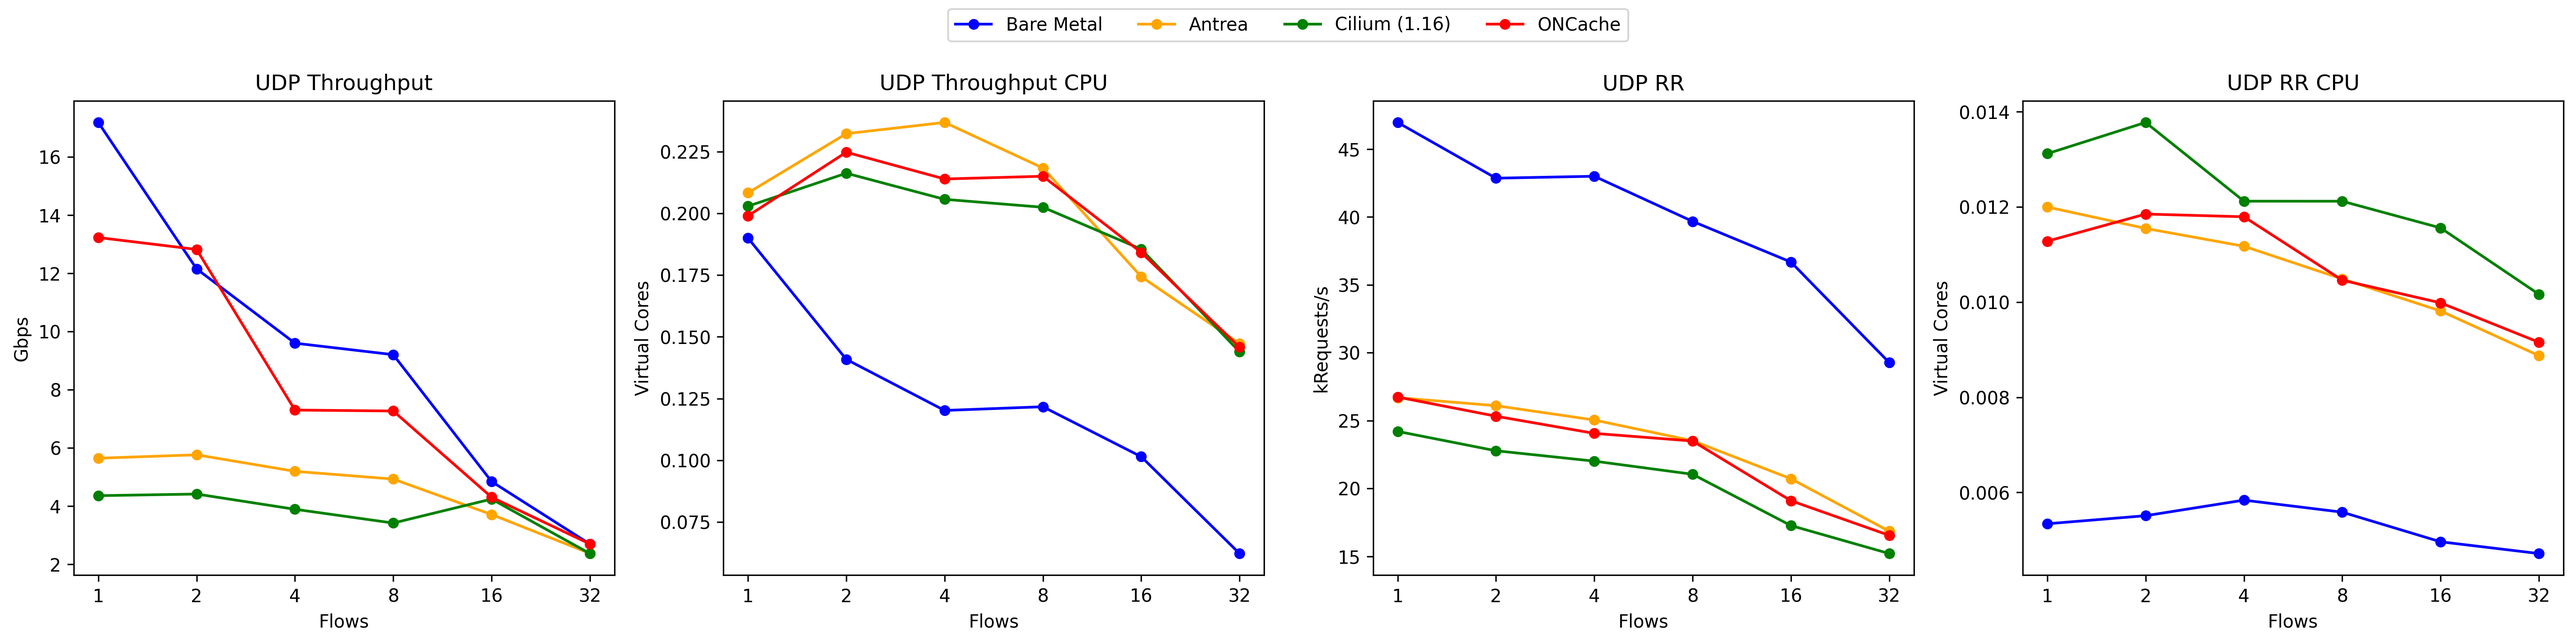
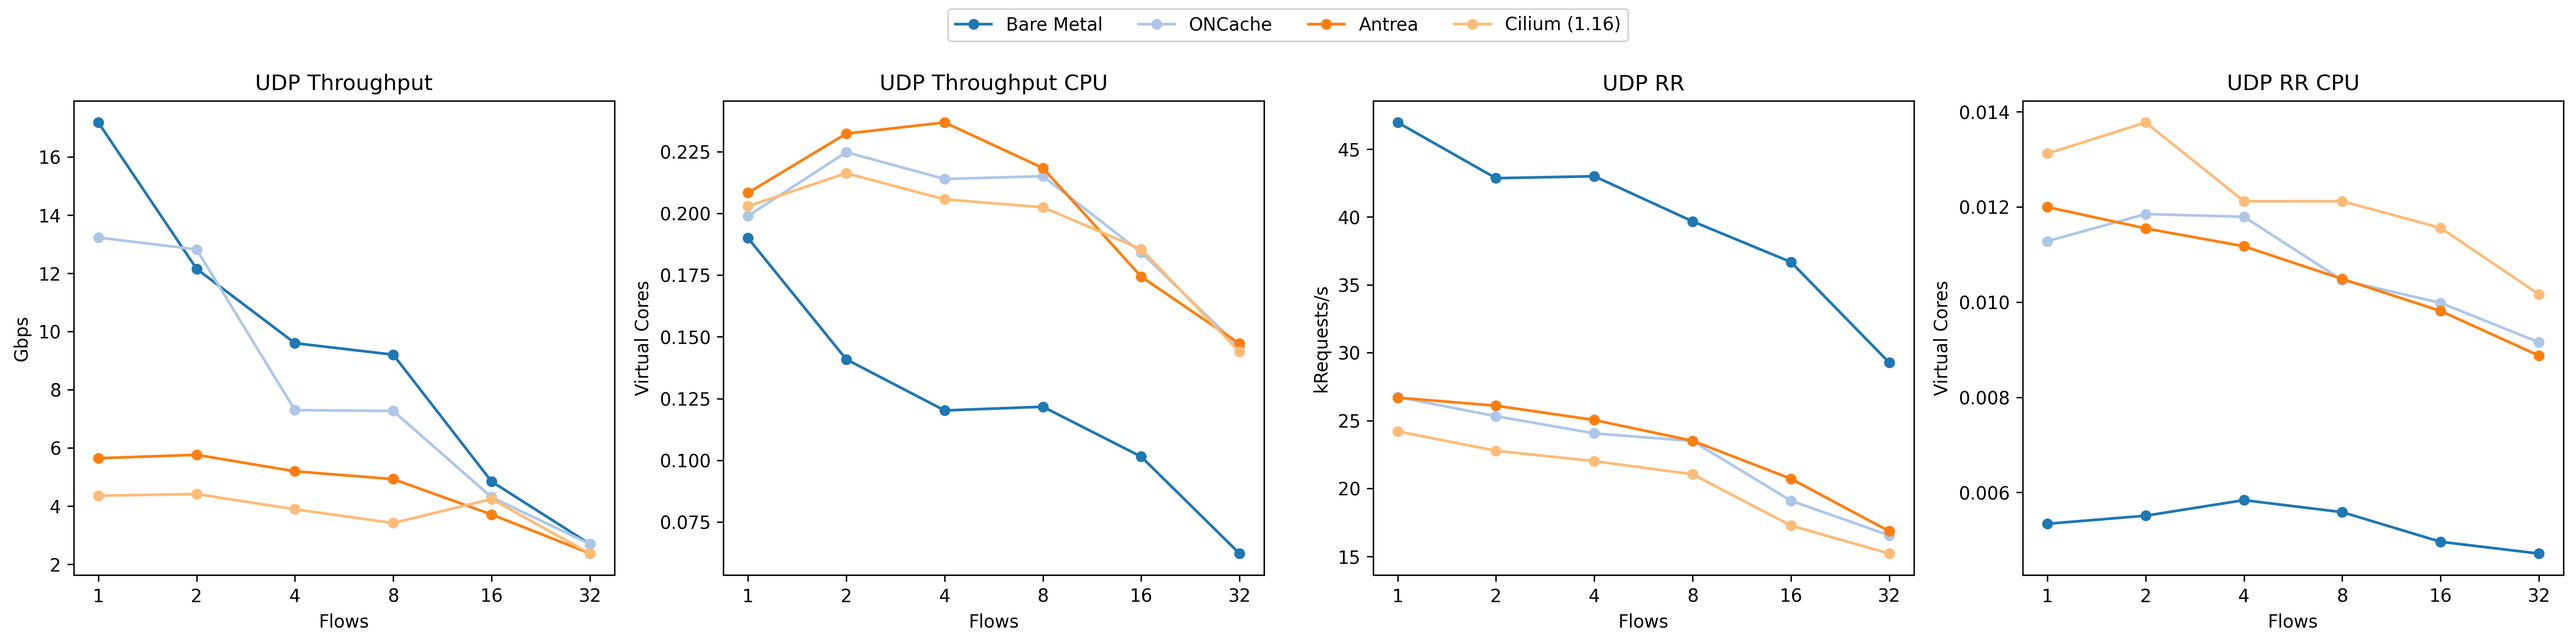
Update plot colors

diff --git a/plot.py b/plot.py
@@ -27,28 +27,28 @@ DATA_CONFIG: Dict[str, DataConfig] = {
     "baremetal": {
         "filename": "{}_baremetal_output.csv",
         "label": "Bare Metal",
-        "color": "blue",
+        "color": "#1F77B4",
+    },
+    "k8s-oncache": {
+        "filename": "{}_k8s_output_oncache.csv",
+        "label": "ONCache",
+        "color": "#AEC7E8",
     },
     "k8s-antrea": {
         "filename": "{}_k8s_output_antrea.csv",
         "label": "Antrea",
-        "color": "orange",
+        "color": "#FE7F10",
     },
     "k8s-cilium": {
         "filename": "{}_k8s_output_cilium_1-16.csv",
         "label": "Cilium (1.16)",
-        "color": "green",
+        "color": "#FFBB78",
     },
     # "k8s-cilium-new": {
     #     "filename": "{}_k8s_output_cilium_1-17_tuned.csv",
     #     "label": "Cilium (1.17)",
     #     "color": "lightgreen",
     # },
-    "k8s-oncache": {
-        "filename": "{}_k8s_output_oncache.csv",
-        "label": "ONCache",
-        "color": "red",
-    },
 }
 
 GRAPHS: List[Graph] = [
@@ -179,7 +179,7 @@ def main():
         "-o",
         "--output",
         type=str,
-        default="results/{}_plot.png",
+        default=None,
         help="Output file for the plot.",
     )
     parser.add_argument(
@@ -203,6 +203,9 @@ def main():
         help="Directory to pull results from.",
     )
     args = parser.parse_args()
+
+    if args.output is None:
+        args.output = args.dir + "/{}_plot.png"
 
     bench_type = BenchType.into(args.mode)
     for b in [bench_type] if bench_type else BenchType:
